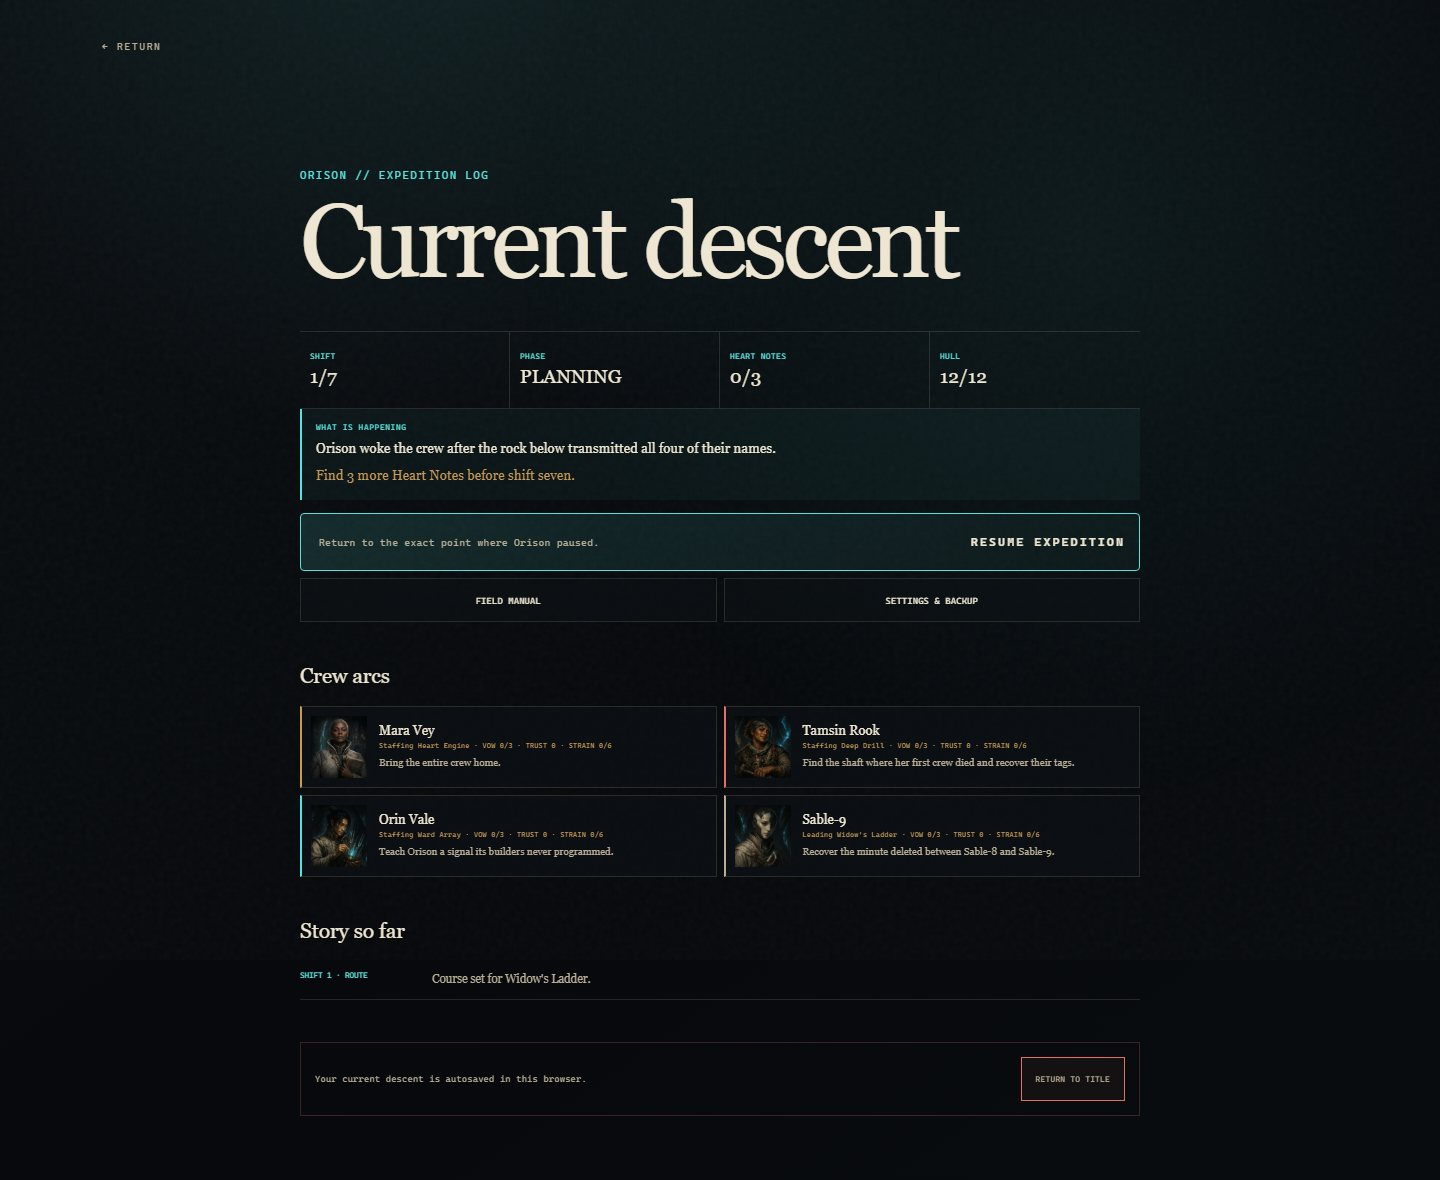
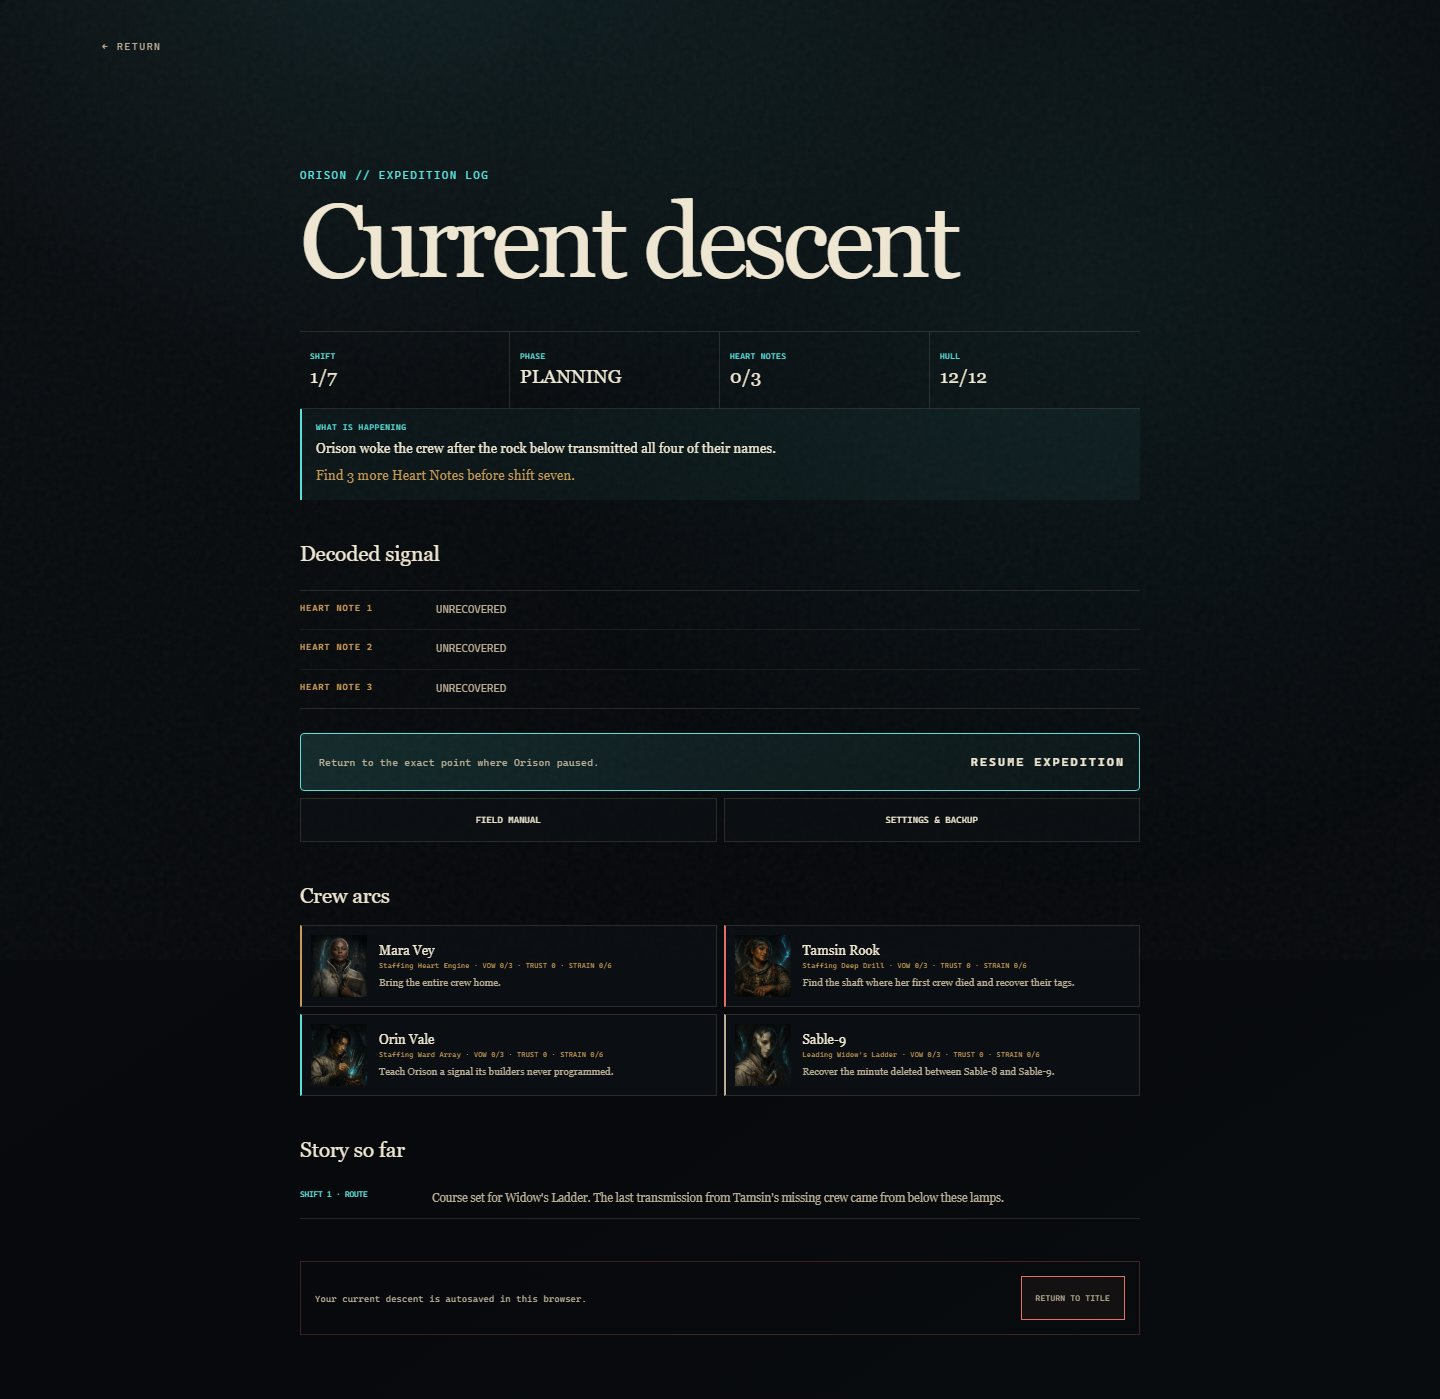
feat: decode Heart Notes into story

diff --git a/packages/engine/src/engine.ts b/packages/engine/src/engine.ts
@@ -39,6 +39,11 @@ const ROUTE_RESERVATION_COST = 1;
 const DEVELOPMENT_SHIFTS = new Set([2, 4]);
 const STARTER_MODULES: readonly ModuleId[] = ['heart_engine', 'deep_drill', 'ward_array'];
 const CREW_IDS: readonly CrewId[] = ['mara', 'tamsin', 'orin', 'sable'];
+export const HEART_NOTE_PHRASES = [
+  'THE CUT DID NOT END US.',
+  'WE KEPT THE NAMES YOU LEFT BELOW.',
+  'ORISON, YOU CARRIED OUR DOOR WITH YOU.',
+] as const;
 const RELIC_ALIASES: Readonly<Record<string, RelicId>> = {
   heart_splinter: 'heart_splinter',
   'Cantor Blade': 'heart_splinter',
@@ -152,6 +157,16 @@ function maximumIntegrity(state: GameState): number {
   return state.startingRelic === 'oathkeepers_latch' ? base + 1 : base;
 }
 
+function recoverHeartNotes(state: GameState, amount: number, source: string, events?: EngineEvent[]): void {
+  const before = state.heartNotes;
+  state.heartNotes = Math.min(HEART_NOTE_PHRASES.length, state.heartNotes + amount);
+  for (let index = before; index < state.heartNotes; index += 1) {
+    const text = `HEART NOTE ${index + 1}/3 // ${source}: “${HEART_NOTE_PHRASES[index]}”`;
+    appendLog(state, 'story', text);
+    if (events) emit(state, events, 'progress', text, 'mystic');
+  }
+}
+
 function emergencyPlatingCost(state: GameState): number {
   return state.runMode === 'black_descent' ? 3 : 2;
 }
@@ -207,6 +222,7 @@ export function createRun(options: CreateRunOptions | string): GameState {
   if (state.startingRelic) {
     const relic = RELICS.find((candidate) => candidate.id === state.startingRelic)!;
     appendLog(state, 'story', `${relic.name} equipped. ${relic.startingEffect}`);
+    if (state.heartNotes > 0) appendLog(state, 'story', `HEART NOTE 1/3 // ${relic.name}: “${HEART_NOTE_PHRASES[0]}”`);
   }
   if (state.runMode === 'black_descent') {
     appendLog(state, 'warning', 'Black Descent: lower starting resources, double hidden high-risk fault damage, and 3-alloy hull repair.');
@@ -519,7 +535,7 @@ function resolveRooms(state: GameState, events: EngineEvent[]): RoomResolution {
       addResource(state, 'lumen', strength);
       if (module.level >= 2 && !state.storyFlags.includes('resonance:heart-note') && state.resources.lumen >= 3) {
         addResource(state, 'lumen', -3);
-        state.heartNotes = Math.min(3, state.heartNotes + 1);
+        recoverHeartNotes(state, 1, 'Resonance Chamber', events);
         state.storyFlags.push('resonance:heart-note');
         emit(state, events, 'progress', 'Resonance Chamber: −3 lumen, +1 Heart Note.', 'mystic');
       }
@@ -627,7 +643,7 @@ function resolveRoute(state: GameState, room: RoomResolution, events: EngineEven
   const focusProgressBefore = state.crew.find((crew) => crew.id === route.focusCrew)!.vowProgress;
   for (const [id, amount] of Object.entries(projectedRouteRewards(state, offer, leader)) as [ResourceId, number][]) addResource(state, id, amount);
   const noteProgress = projectedRouteHeartNotes(state, offer);
-  state.heartNotes = Math.min(3, state.heartNotes + noteProgress);
+  recoverHeartNotes(state, noteProgress, route.title, events);
 
   const damage = projectedDamage(state, offer, leader, offer.revealed);
   state.integrity = Math.max(0, state.integrity - damage);
@@ -844,7 +860,7 @@ function applyChoice(state: GameState, eventTitle: string, choice: EventChoice, 
     for (const [id, amount] of Object.entries(choice.resourceDelta) as [ResourceId, number][]) addResource(state, id, amount);
   }
   if (choice.integrityDelta) state.integrity = Math.max(0, Math.min(maximumIntegrity(state), state.integrity + choice.integrityDelta));
-  if (choice.noteDelta) state.heartNotes = Math.min(3, state.heartNotes + choice.noteDelta);
+  if (choice.noteDelta) recoverHeartNotes(state, choice.noteDelta, eventTitle, events);
   if (choice.crewId && choice.loyaltyDelta) increaseLoyalty(state, choice.crewId, choice.loyaltyDelta, events);
   if (choice.crewId && choice.strainDelta) adjustStrain(state, choice.crewId, choice.strainDelta, events);
   appendLog(state, 'story', `${eventTitle} — ${choice.label}: ${choice.consequence}${choice.aftermath ? ` ${choice.aftermath}` : ''}`);

diff --git a/apps/game/app/game-app.tsx b/apps/game/app/game-app.tsx
@@ -3,6 +3,7 @@
 import {
   CREW,
   ENDINGS as ENDING_CONTENT,
+  HEART_NOTE_PHRASES,
   LORE,
   MODULES,
   RELICS,
@@ -1123,6 +1124,10 @@ function ExpeditionMenu({ view, onNavigate, onTitle, onBack }: {
         <span><small>SHIFT</small><b>{view.state.shift}/7</b></span><span><small>PHASE</small><b>{view.state.phase.toUpperCase()}</b></span><span><small>HEART NOTES</small><b>{view.state.heartNotes}/3</b></span><span><small>HULL</small><b>{view.state.integrity}/{view.maxIntegrity}</b></span>
       </div>
       <p className="pause-objective"><b>WHAT IS HAPPENING</b>{SHIFT_BRIEFINGS[view.state.shift]} <em>{view.objective}</em></p>
+      <h2>Decoded signal</h2>
+      <div className="contract-terms" data-testid="heart-note-register">
+        {HEART_NOTE_PHRASES.map((phrase, index) => <span key={phrase}><b>HEART NOTE {index + 1}</b>{index < view.state.heartNotes ? `“${phrase}”` : 'UNRECOVERED'}</span>)}
+      </div>
       <div className="pause-actions">
         <button className="primary-action" type="button" onClick={onBack}><span>Return to the exact point where Orison paused.</span><b>RESUME EXPEDITION</b></button>
         <button type="button" onClick={() => onNavigate('manual')}>FIELD MANUAL</button>

diff --git a/packages/engine/test/engine.test.ts b/packages/engine/test/engine.test.ts
@@ -363,6 +363,17 @@ test('a resolved shift produces resources, route progress, story, and a clean ne
   assert.ok(storyLog.text.includes(choice.aftermath!));
 });
 
+test('recovered Heart Notes decode numbered phrases into the permanent expedition log', () => {
+  const state = readyFirstShift('heart-note-words');
+  state.routeOffers.find((offer) => offer.instanceId === state.selectedRoute)!.routeId = 'vein_cantor_seam';
+  const result = applyCommand(state, { type: 'resolve_shift' });
+  assert.equal(result.state.heartNotes, 1);
+  const noteLog = result.state.log.find((entry) => entry.text.startsWith('HEART NOTE 1/3'));
+  assert.ok(noteLog);
+  assert.match(noteLog.text, /THE CUT DID NOT END US/);
+  assert.ok(result.events.some((event) => event.text === noteLog.text && event.emphasis === 'mystic'));
+});
+
 test('development breaks offer legal builds or upgrades and consume alloy', () => {
   let state = readyFirstShift('development');
   state = applyCommand(state, { type: 'resolve_shift' }).state;

diff --git a/apps/game/tests/game.spec.ts b/apps/game/tests/game.spec.ts
@@ -103,6 +103,8 @@ test('in-run log menu preserves the descent and recaps crew and story on phone',
   await menu.click();
   await expect(page.getByRole('heading', { name: 'Current descent' })).toBeVisible();
   await expect(page.getByTestId('pause-summary')).toContainText('SHIFT');
+  await expect(page.getByTestId('heart-note-register').locator('span')).toHaveCount(3);
+  await expect(page.getByTestId('heart-note-register')).toContainText('UNRECOVERED');
   await expect(page.getByTestId('pause-crew').locator('article')).toHaveCount(4);
   await expect(page.getByTestId('expedition-journal')).toContainText('Course set for');
   await page.getByRole('button', { name: 'FIELD MANUAL' }).click();

diff --git a/README.md b/README.md
@@ -59,6 +59,9 @@ recaps the current objective, crew duties and vows, and the latest twelve story 
 then returns to the exact selected mission and staffing plan. Mission discoveries and
 the full authored aftermath of each event choice are written into that save-backed
 journal, so the expedition's story survives after its decision panel closes.
+Each of the three Heart Notes now decodes a fixed line of the buried signal. The
+in-run menu keeps recovered lines visible beside locked positions for the Notes still
+missing, turning the victory requirement into an unfolding message rather than a key count.
 Paste a seed directly on the title screen, or append
 `?seed=SHARED-SIGNAL&mode=black_descent` to prepare the same deterministic expedition
 and contract for another player or later playtest.

diff --git a/docs/VALIDATION.md b/docs/VALIDATION.md
@@ -91,6 +91,9 @@ from the current best-per-mode summaries because their missing crew components c
 recomputed honestly.
 - The engine exposes the seven score components as a tested ledger; the UI shows the
   base and mode multiplier and copies a deterministic seed-linked expedition report.
+- Heart Note recovery now emits and persists one of three numbered signal phrases;
+  an engine regression verifies the first route-sourced decode and the in-run menu
+  presents all three positions without revealing unrecovered text.
 - Content validation now proves all sixteen routes can surface a keyed story event and
   all twelve Chronicle lore fragments have reachable unlock tags.
 
